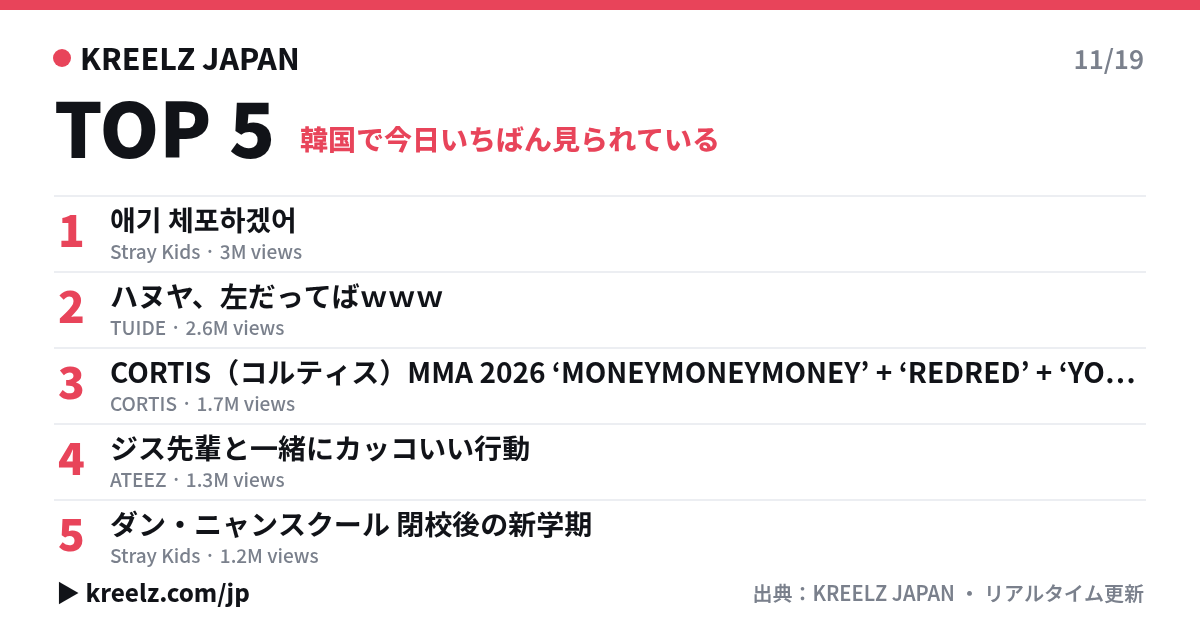
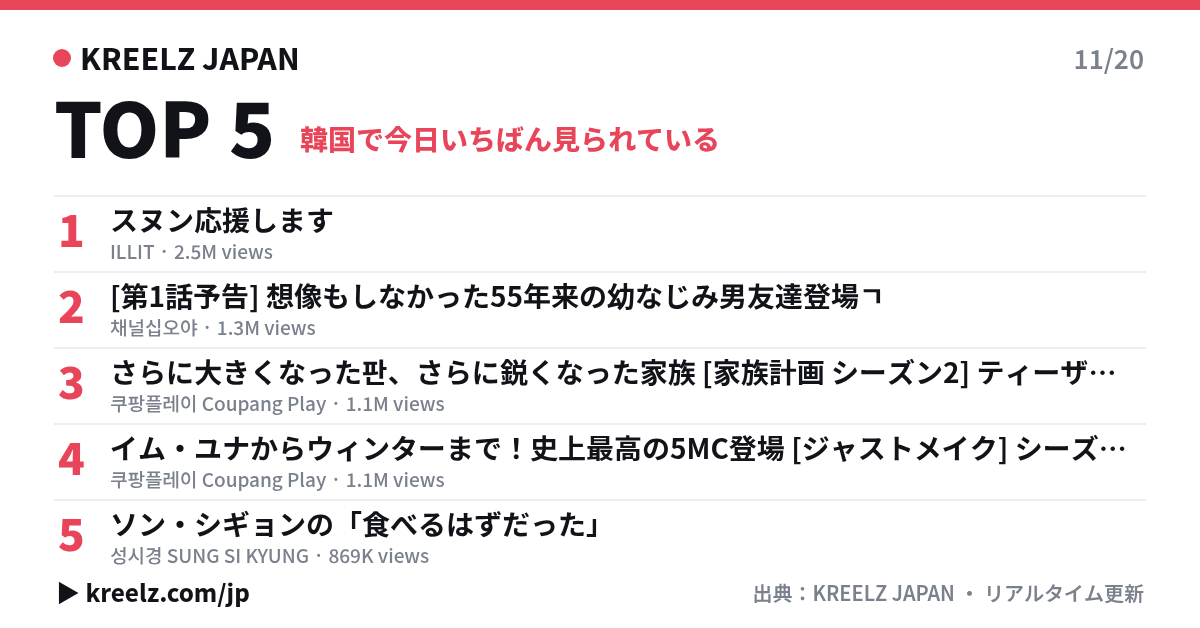
X TOP5 card for 2026-11-20

diff --git a/jp/top5/index.html b/jp/top5/index.html
@@ -1,11 +1,11 @@
 <!doctype html><html lang="ja"><head><meta charset="utf-8">
-<meta name="viewport" content="width=device-width,initial-scale=1"><title>韓国で今日いちばん見られているK動画 TOP5（11/19） | KREELZ JAPAN</title>
-<meta name="description" content="1. 애기 체포하겠어 / 2. ハヌヤ、左だってばｗｗｗ / 3. CORTIS（コルティス）MMA 2026 ‘MONEYMONEYMONEY’ + ‘REDRED’ + ‘YOUNGC / 4. ジス先輩と一緒にカッコいい行動 / 5. ダン・ニャンスクール 閉校後の新学期"><link rel="canonical" href="https://kreelz.com/jp/">
+<meta name="viewport" content="width=device-width,initial-scale=1"><title>韓国で今日いちばん見られているK動画 TOP5（11/20） | KREELZ JAPAN</title>
+<meta name="description" content="1. スヌン応援します / 2. [第1話予告] 想像もしなかった55年来の幼なじみ男友達登場ㄱ / 3. さらに大きくなった판、さらに鋭くなった家族 [家族計画 シーズン2] ティーザー予告編 / 4. イム・ユナからウィンターまで！史上最高の5MC登場 [ジャストメイク] シーズン2 5MCの予告編 / 5. ソン・シギョンの「食べるはずだった」"><link rel="canonical" href="https://kreelz.com/jp/">
 <meta property="og:type" content="website"><meta property="og:site_name" content="KREELZ JAPAN"><meta property="og:locale" content="ja_JP">
-<meta property="og:title" content="韓国で今日いちばん見られているK動画 TOP5（11/19）"><meta property="og:description" content="1. 애기 체포하겠어 / 2. ハヌヤ、左だってばｗｗｗ / 3. CORTIS（コルティス）MMA 2026 ‘MONEYMONEYMONEY’ + ‘REDRED’ + ‘YOUNGC / 4. ジス先輩と一緒にカッコいい行動 / 5. ダン・ニャンスクール 閉校後の新学期">
-<meta property="og:url" content="https://kreelz.com/jp/top5/"><meta property="og:image" content="https://kreelz.com/jp/top5.png?v=20261119">
+<meta property="og:title" content="韓国で今日いちばん見られているK動画 TOP5（11/20）"><meta property="og:description" content="1. スヌン応援します / 2. [第1話予告] 想像もしなかった55年来の幼なじみ男友達登場ㄱ / 3. さらに大きくなった판、さらに鋭くなった家族 [家族計画 シーズン2] ティーザー予告編 / 4. イム・ユナからウィンターまで！史上最高の5MC登場 [ジャストメイク] シーズン2 5MCの予告編 / 5. ソン・シギョンの「食べるはずだった」">
+<meta property="og:url" content="https://kreelz.com/jp/top5/"><meta property="og:image" content="https://kreelz.com/jp/top5.png?v=20261120">
 <meta property="og:image:width" content="1200"><meta property="og:image:height" content="628">
-<meta name="twitter:card" content="summary_large_image"><meta name="twitter:title" content="韓国で今日いちばん見られているK動画 TOP5（11/19）">
-<meta name="twitter:description" content="1. 애기 체포하겠어 / 2. ハヌヤ、左だってばｗｗｗ / 3. CORTIS（コルティス）MMA 2026 ‘MONEYMONEYMONEY’ + ‘REDRED’ + ‘YOUNGC / 4. ジス先輩と一緒にカッコいい行動 / 5. ダン・ニャンスクール 閉校後の新学期"><meta name="twitter:image" content="https://kreelz.com/jp/top5.png?v=20261119">
+<meta name="twitter:card" content="summary_large_image"><meta name="twitter:title" content="韓国で今日いちばん見られているK動画 TOP5（11/20）">
+<meta name="twitter:description" content="1. スヌン応援します / 2. [第1話予告] 想像もしなかった55年来の幼なじみ男友達登場ㄱ / 3. さらに大きくなった판、さらに鋭くなった家族 [家族計画 シーズン2] ティーザー予告編 / 4. イム・ユナからウィンターまで！史上最高の5MC登場 [ジャストメイク] シーズン2 5MCの予告編 / 5. ソン・シギョンの「食べるはずだった」"><meta name="twitter:image" content="https://kreelz.com/jp/top5.png?v=20261120">
 <meta name="robots" content="noindex,follow"><meta http-equiv="refresh" content="0;url=/jp/">
-</head><body><p><a href="/jp/">KREELZ JAPAN — 韓国で今日いちばん見られているK動画 TOP5（11/19）</a></p><script>location.replace("/jp/")</script></body></html>
+</head><body><p><a href="/jp/">KREELZ JAPAN — 韓国で今日いちばん見られているK動画 TOP5（11/20）</a></p><script>location.replace("/jp/")</script></body></html>
